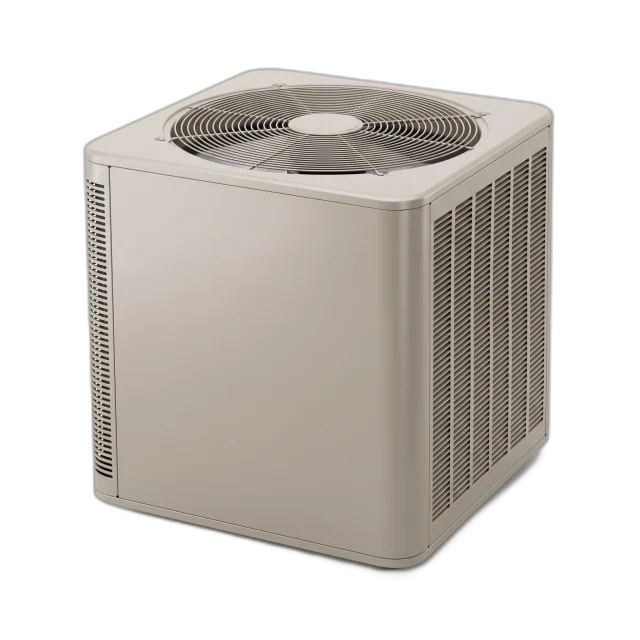
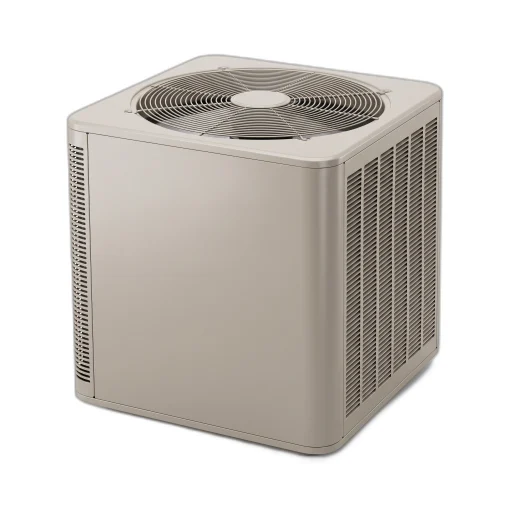
category tiles: flatten images onto pure white (no halo/vignette); hero product in a clean white circle

Changed region(s): [[0.3125, 0.125, 0.7188, 0.2812], [0.125, 0.2812, 0.1562, 0.3125]]

diff --git a/app/category/[slug]/category-landing.tsx b/app/category/[slug]/category-landing.tsx
@@ -108,18 +108,12 @@ function PromoCarousel() {
               </Link>
             </Button>
           </div>
-          {/* Transparent product floats large with a soft spotlight — no disc. */}
-          <div className="relative hidden items-center justify-center justify-self-center sm:flex">
-            <span
-              aria-hidden
-              className="absolute size-72 rounded-full bg-white/20 blur-3xl md:size-96"
-            />
-            {/* eslint-disable-next-line @next/next/no-img-element */}
-            <img
-              src={s.image}
-              alt=""
-              className="relative size-72 object-contain drop-shadow-2xl md:size-80 lg:size-96"
-            />
+          {/* Product sits in a large white circle — clean on the dark gradient. */}
+          <div className="hidden items-center justify-center justify-self-center sm:flex">
+            <span className="grid size-56 place-items-center overflow-hidden rounded-full bg-white shadow-2xl ring-4 ring-white/20 md:size-72 lg:size-80">
+              {/* eslint-disable-next-line @next/next/no-img-element */}
+              <img src={s.image} alt="" className="max-h-[78%] max-w-[78%] object-contain" />
+            </span>
           </div>
         </div>
 

diff --git a/app/search/_lib/search-body.tsx b/app/search/_lib/search-body.tsx
@@ -134,7 +134,7 @@ function CategoryScroller({ items, href }: { items: CategoryTile[]; href: string
                 >
                   {it.image ? (
                     // eslint-disable-next-line @next/next/no-img-element
-                    <img src={it.image} alt="" className="max-h-[70%] max-w-[70%] object-contain" loading="lazy" />
+                    <img src={it.image} alt="" className="max-h-[82%] max-w-[82%] object-contain" loading="lazy" />
                   ) : (
                     <it.Icon className="size-9 text-muted-foreground transition group-hover:text-primary" aria-hidden="true" />
                   )}
